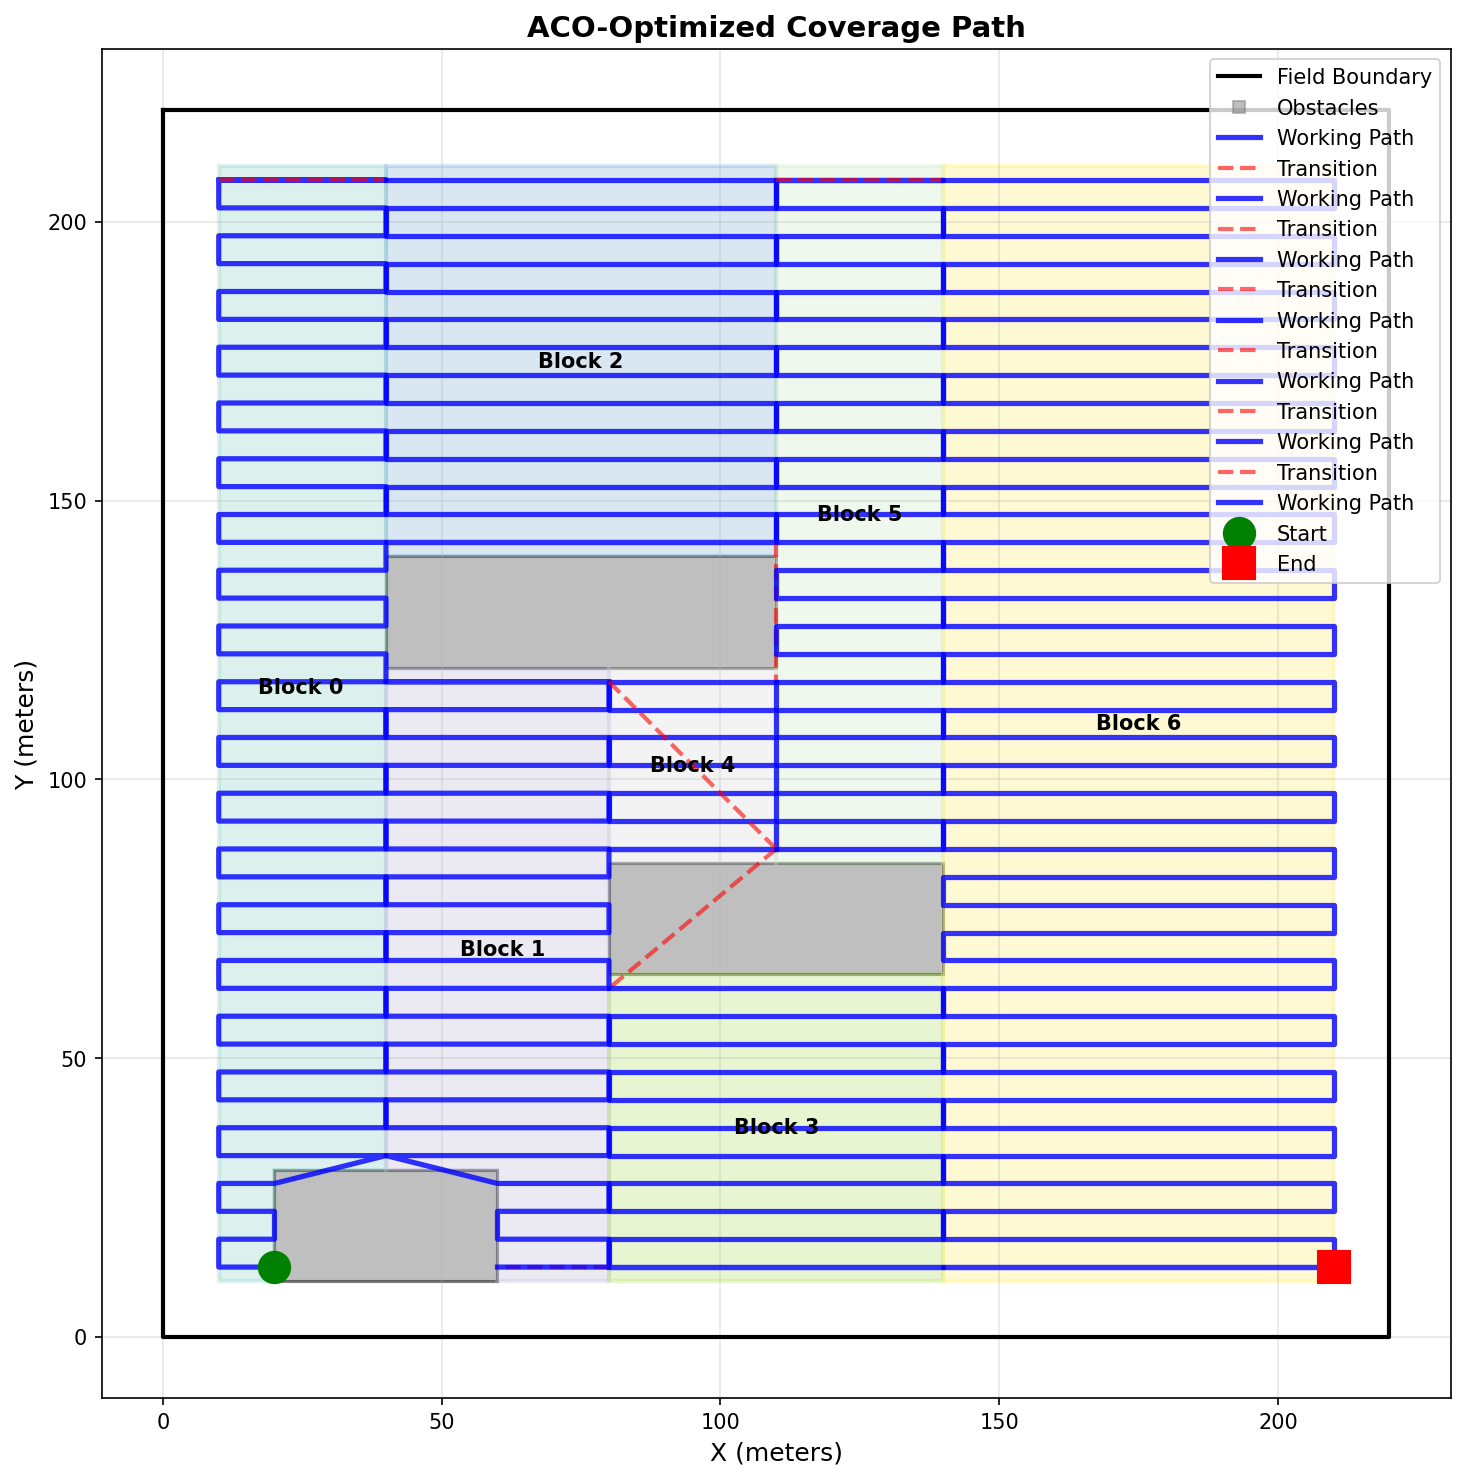
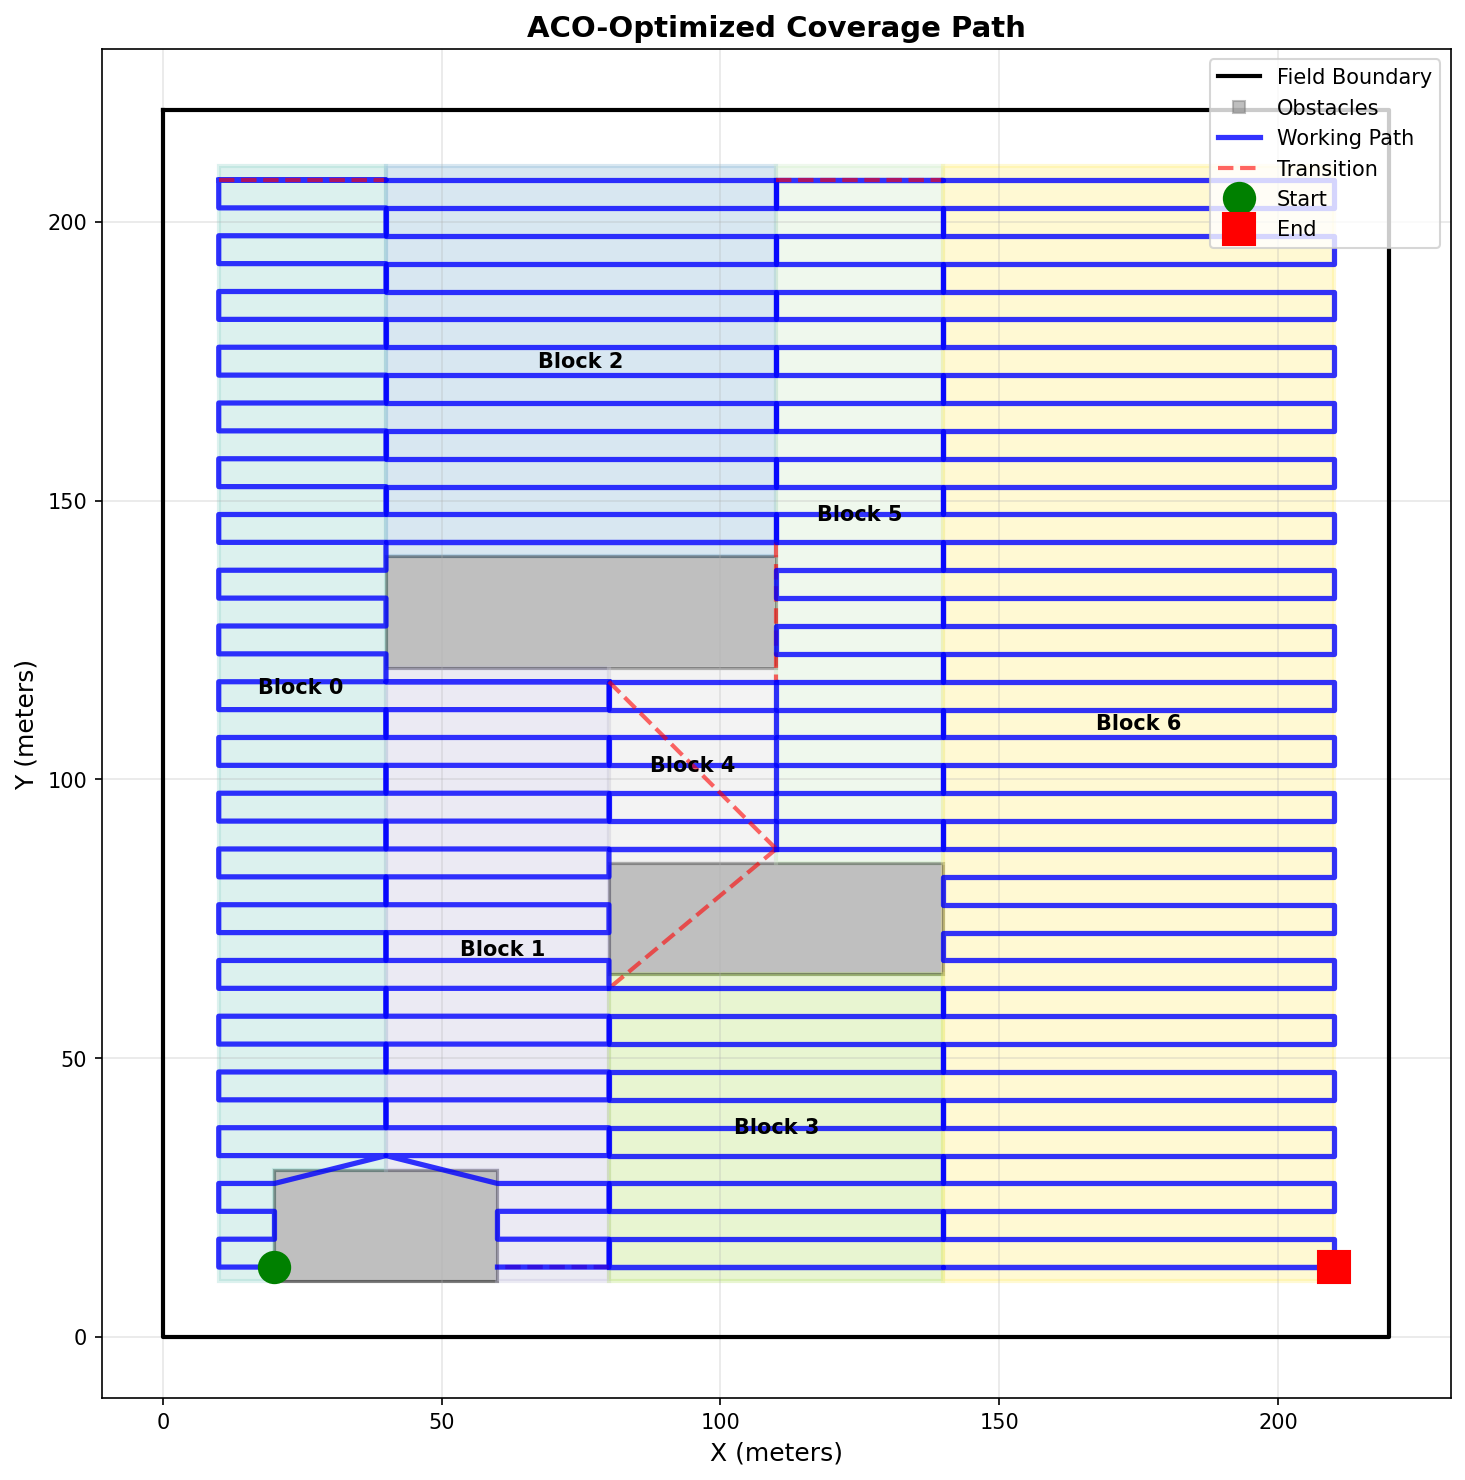
Fix legend duplicate row error

Changed region(s): [[0.7986, 0.1243, 0.9829, 0.4041]]

diff --git a/examples/stage3_optimization.py b/examples/stage3_optimization.py
@@ -78,33 +78,38 @@ def visualize_path(field, blocks, path_plan, title="ACO-Optimized Coverage Path"
         path_x, path_y = zip(*all_waypoints)
 
         # Draw path with different styles for working vs transition
-        prev_type = None
-        segment_start = 0
+        # Track which labels have been added to prevent duplicates
+        labels_added = set()
 
         for i, segment in enumerate(path_plan.segments):
             segment_waypoints = segment.waypoints
             seg_x, seg_y = zip(*segment_waypoints)
 
             if segment.segment_type == "working":
+                # Only add label if not already in legend
+                label = "Working Path" if "working" not in labels_added else ""
+                if label:
+                    labels_added.add("working")
                 ax.plot(
                     seg_x,
                     seg_y,
                     "b-",
                     linewidth=2.5,
                     alpha=0.8,
-                    label="Working Path" if prev_type != "working" else "",
+                    label=label,
                 )
             else:  # transition
+                label = "Transition" if "transition" not in labels_added else ""
+                if label:
+                    labels_added.add("transition")
                 ax.plot(
                     seg_x,
                     seg_y,
                     "r--",
                     linewidth=2,
                     alpha=0.6,
-                    label="Transition" if prev_type != "transition" else "",
+                    label=label,
                 )
-
-            prev_type = segment.segment_type
 
         # Mark start and end
         ax.plot(
